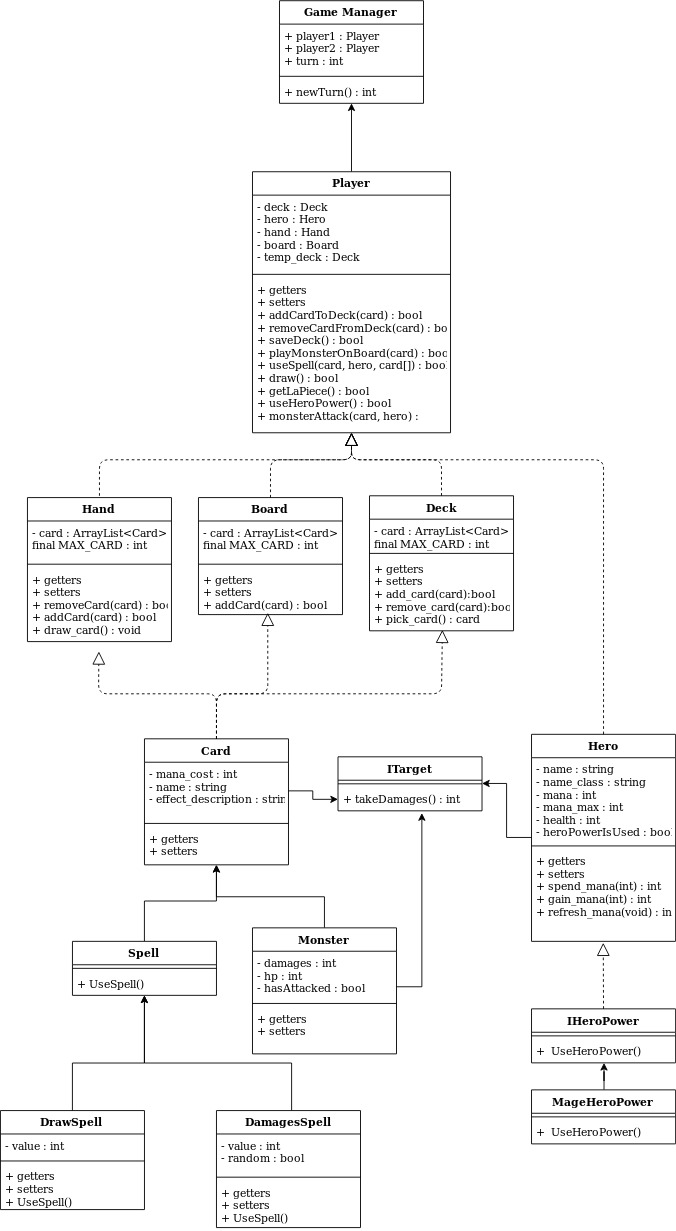
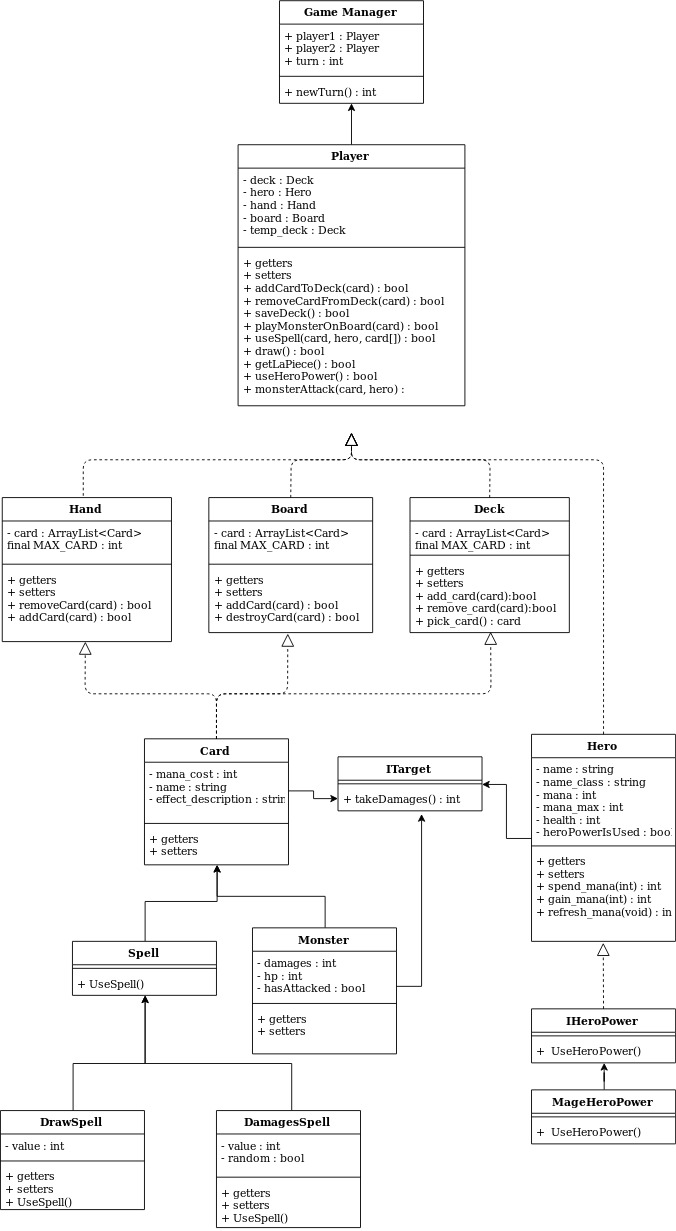
HeroPower + board

diff --git a/TerraStone/src/model/Board.java b/TerraStone/src/model/Board.java
@@ -1,0 +1,30 @@
+package model;
+
+import java.util.ArrayList;
+import java.util.Observable;
+
+
+@SuppressWarnings("deprecation")
+public class Board extends Observable {
+	private ArrayList<Card> cards;
+	final int MAX_CARD = 7;
+	
+	public boolean addCard(Card card) {
+		if(this.MAX_CARD == this.cards.size()) {
+			return false;
+		}
+		this.cards.add(card);
+		notifyObservers("addCard");
+		return true;
+	}
+	
+	public boolean destroyCard(Card card) {
+		for(Card board_card : this.cards) {
+			if(board_card.equals(card)) {
+				this.cards.remove(board_card);
+			}
+		}
+		notifyObservers("destroyCard");
+		return true;
+	}
+}

diff --git a/TerraStone/src/model/MageHeroPower.java b/TerraStone/src/model/MageHeroPower.java
@@ -1,9 +1,13 @@
 package model;
 
-public class MageHeroPower implements IHeroPower{
+import java.util.Observable;
+
+@SuppressWarnings("deprecation")
+public class MageHeroPower extends Observable implements IHeroPower{
+	@SuppressWarnings("deprecation")
 	public void useHeroPower(ITarget target) {		
 		
 		target.takeDamages(1);
-		
+		notifyObservers("useHeroPower");
 	}
 }
